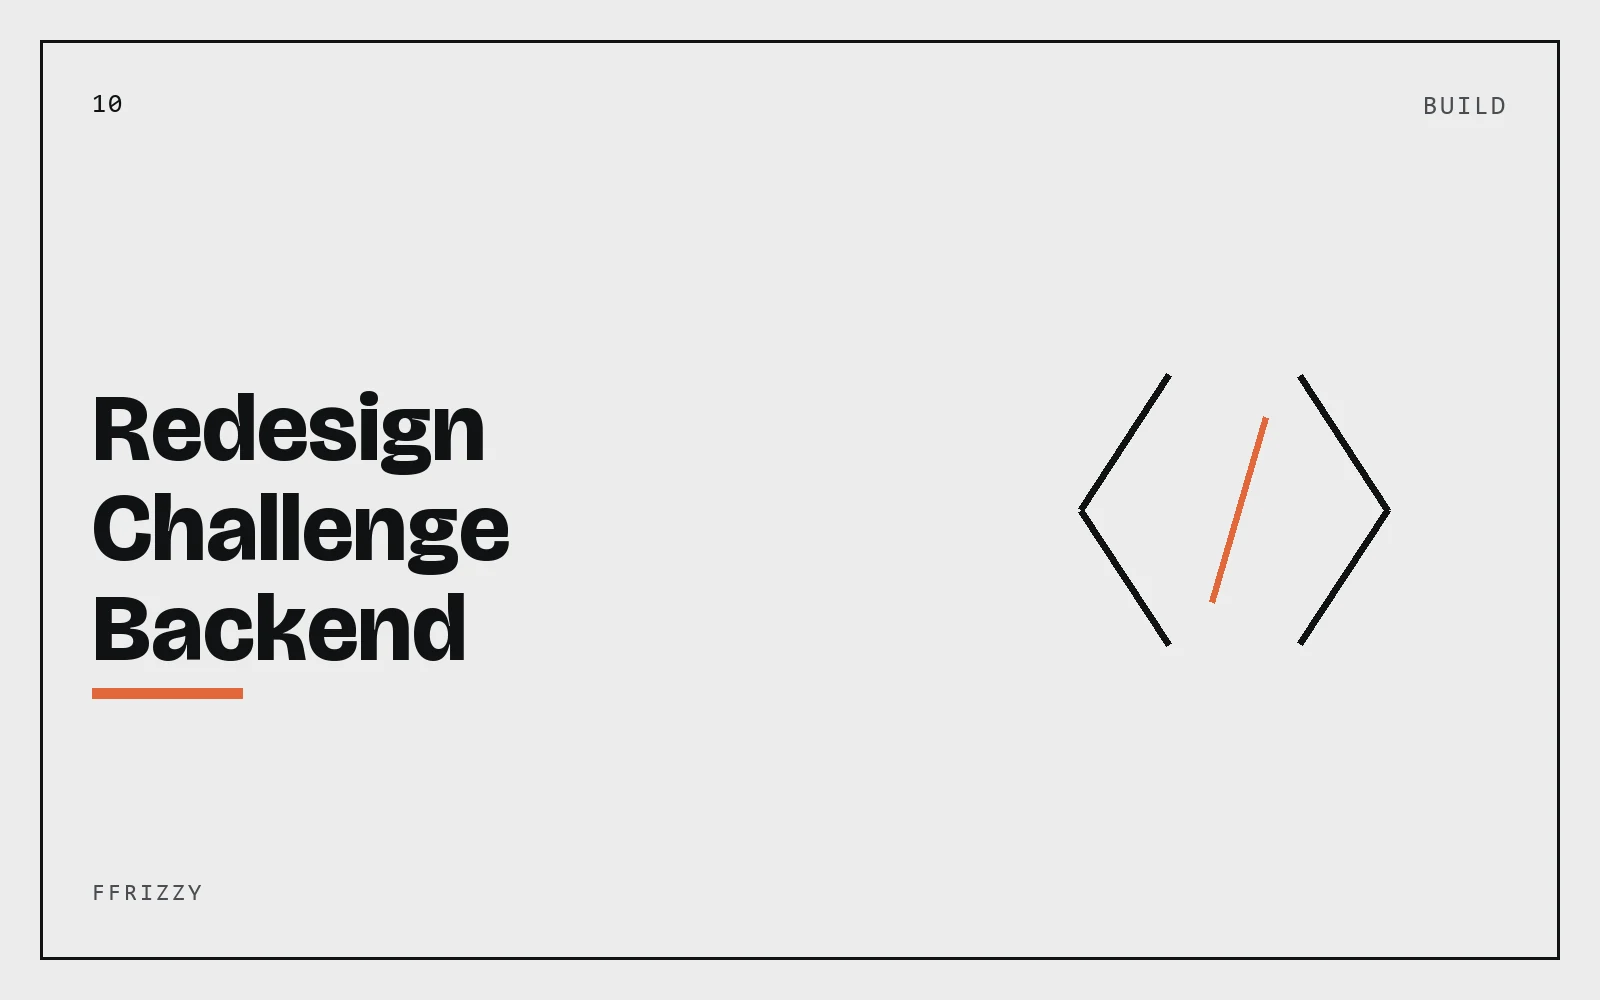
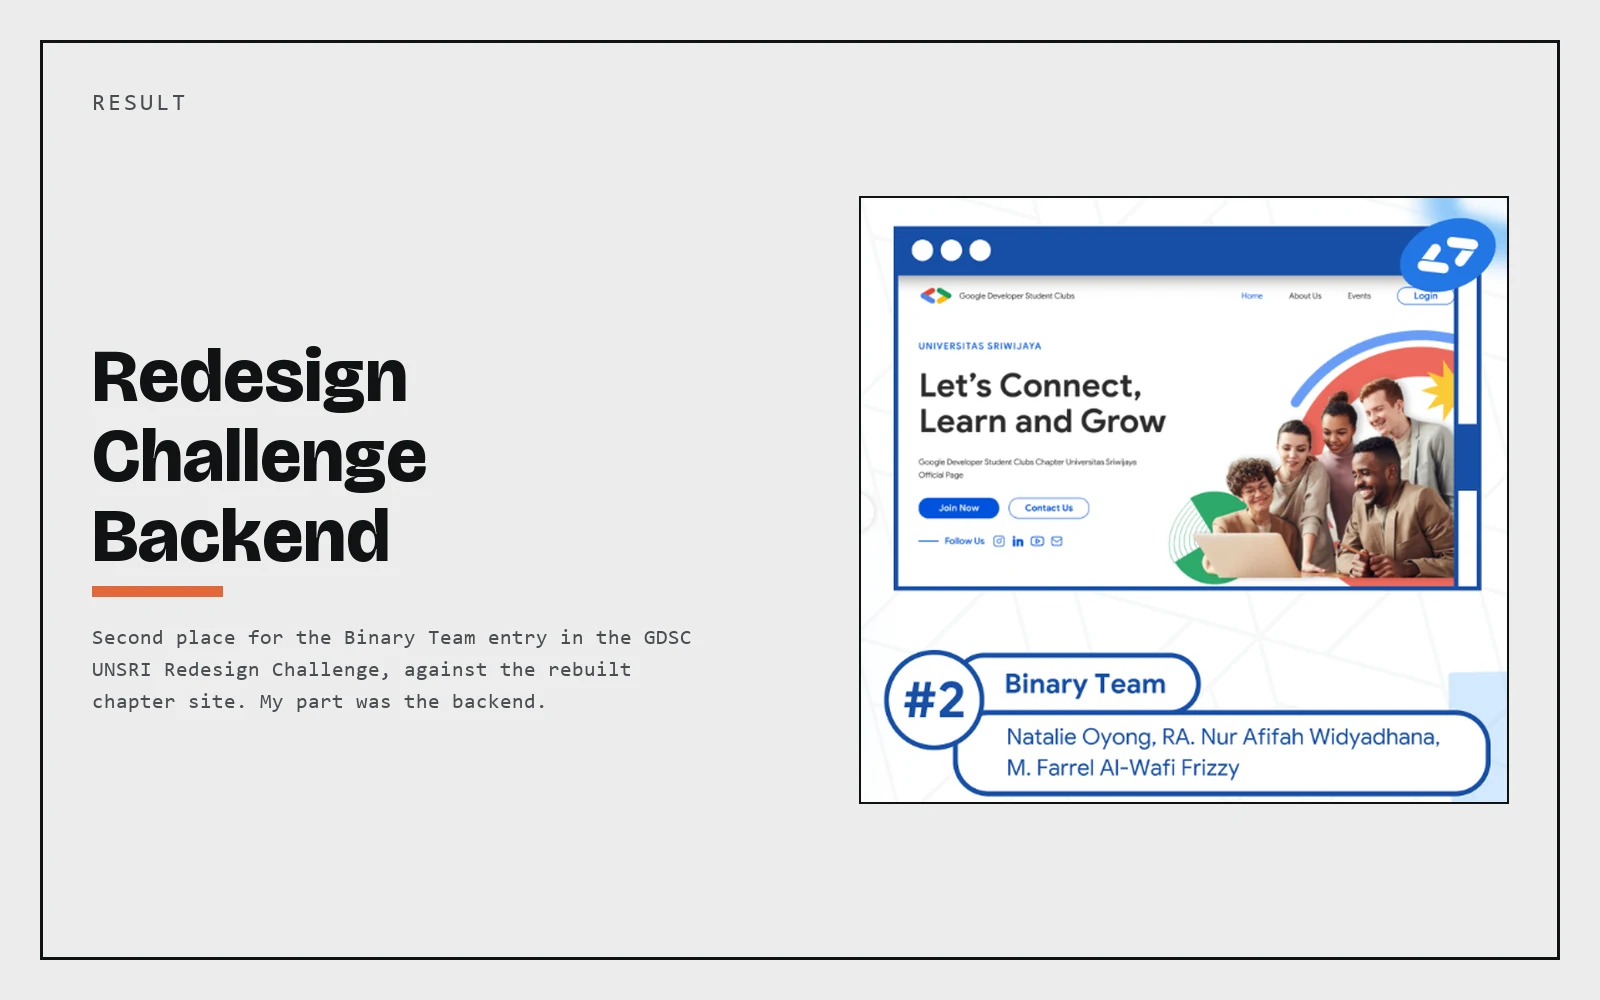
Wire the real LinkedIn article and the Redesign Challenge result
The LinkedIn article link pointed at the LinkedIn homepage, so the live site carried a dead link; it now points at the article itself. The Redesign Challenge cover was a drawn stand-in and is now the actual result slide the owner supplied, mounted through the same plate treatment as the other figures so the bento stays coherent.

diff --git a/src/content/projects.ts b/src/content/projects.ts
@@ -62,7 +62,10 @@ export const projects: Project[] = [
     tags: [],
     links: [
       { label: "GitHub", href: "https://github.com/Gedegok23/portal-publik" },
-      { label: "LinkedIn article", href: "https://www.linkedin.com/" },
+      {
+        label: "LinkedIn article",
+        href: "https://www.linkedin.com/pulse/ai-engineer-muhammad-farrel-al-wafi-frizzy-ixuyf",
+      },
     ],
     cover: "/images/portal-publik.webp",
     sampleData: true,
